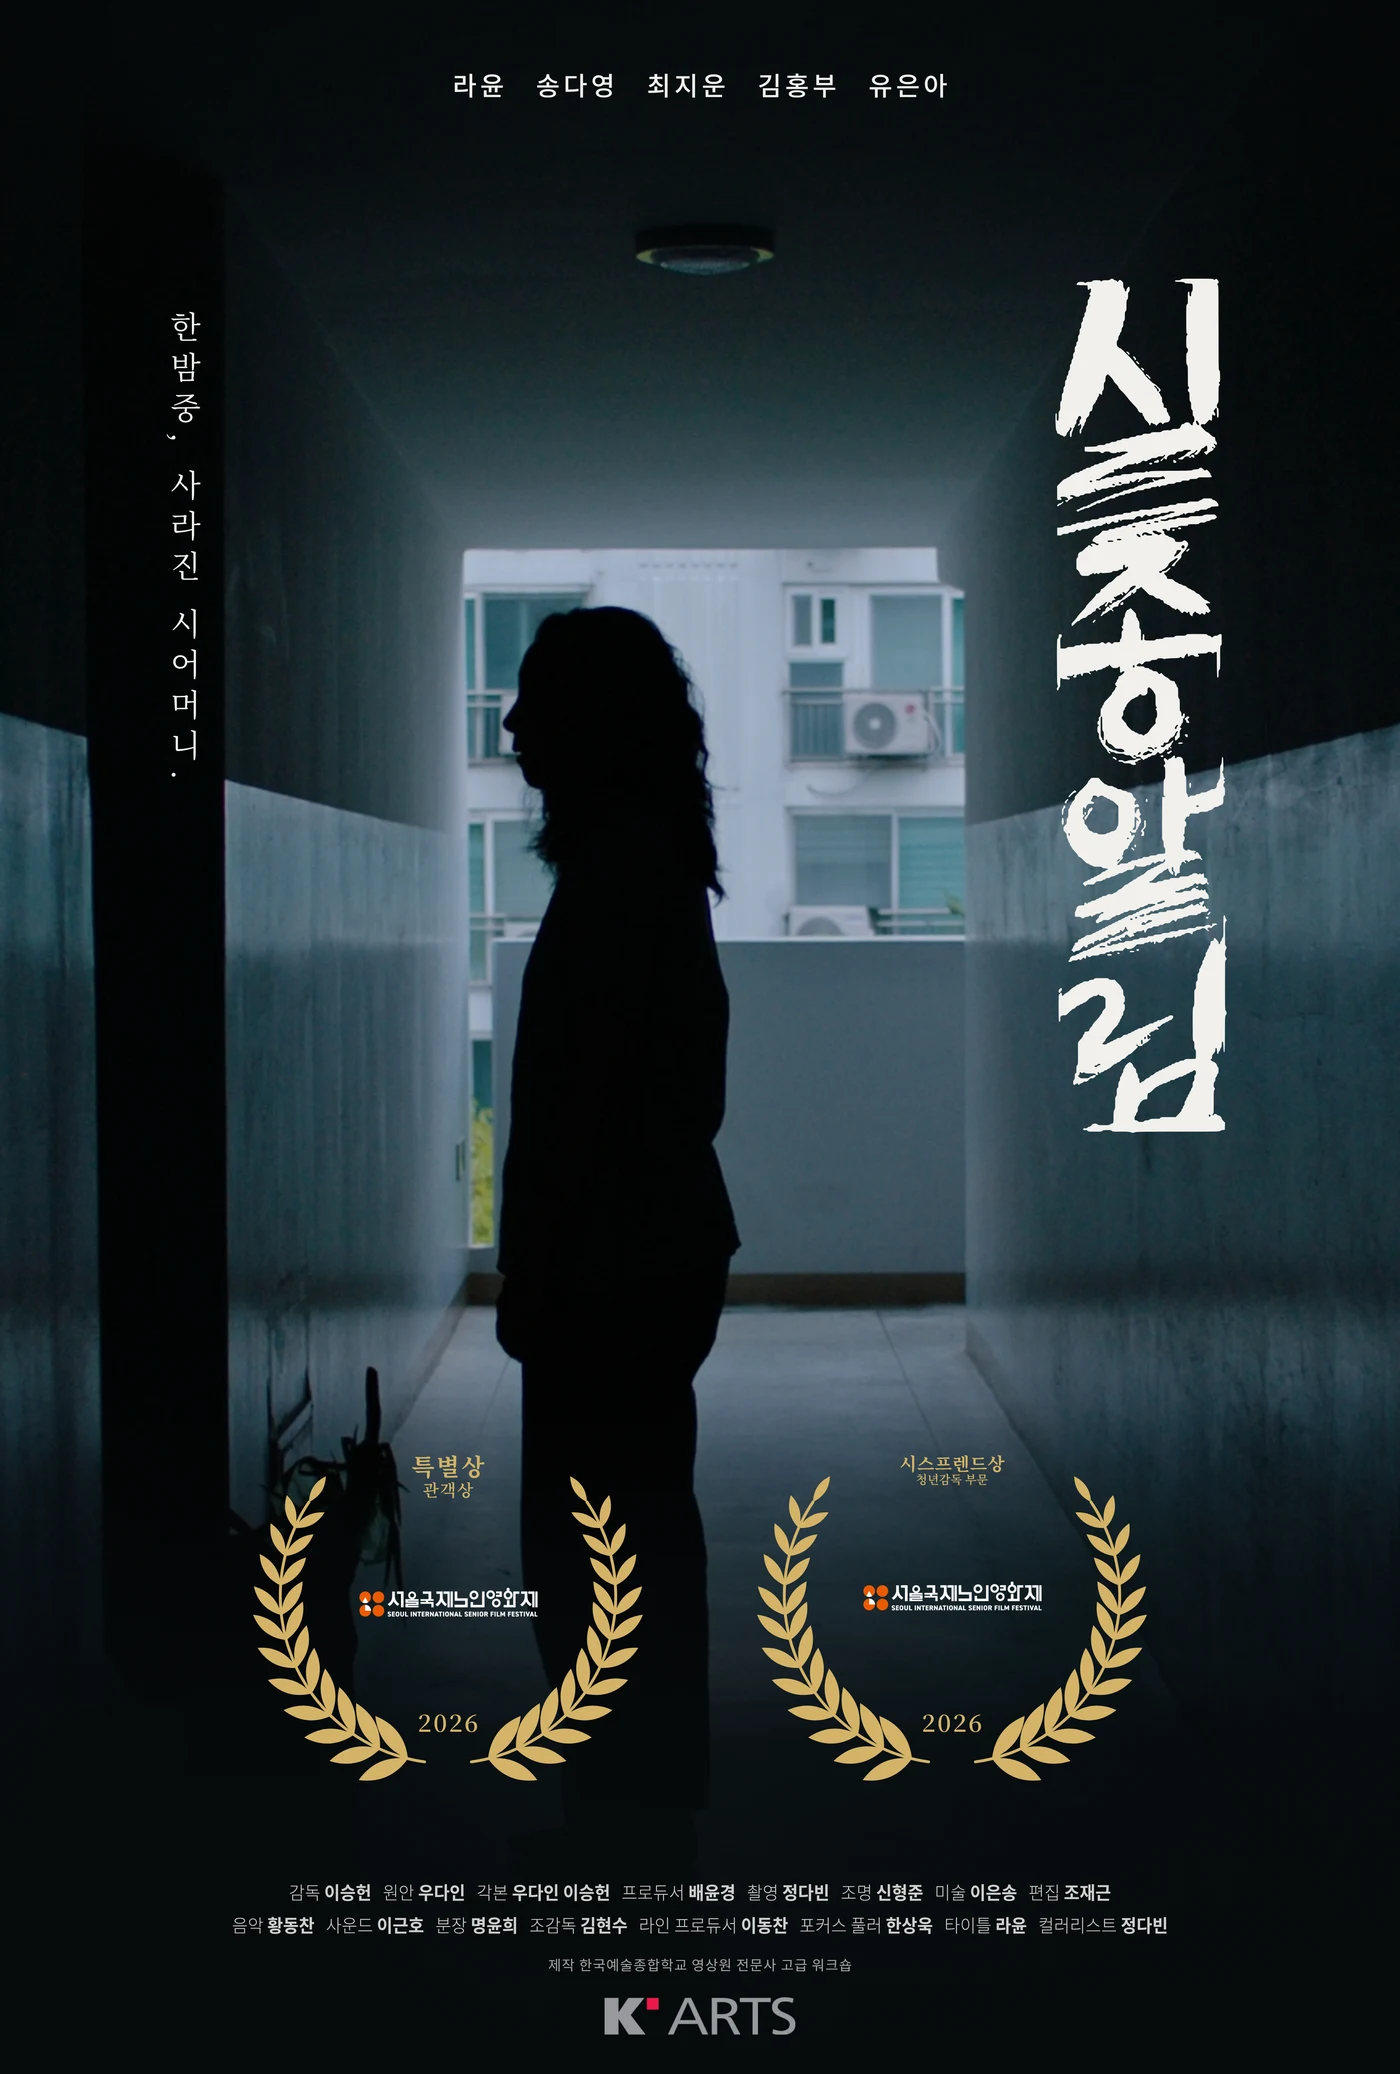
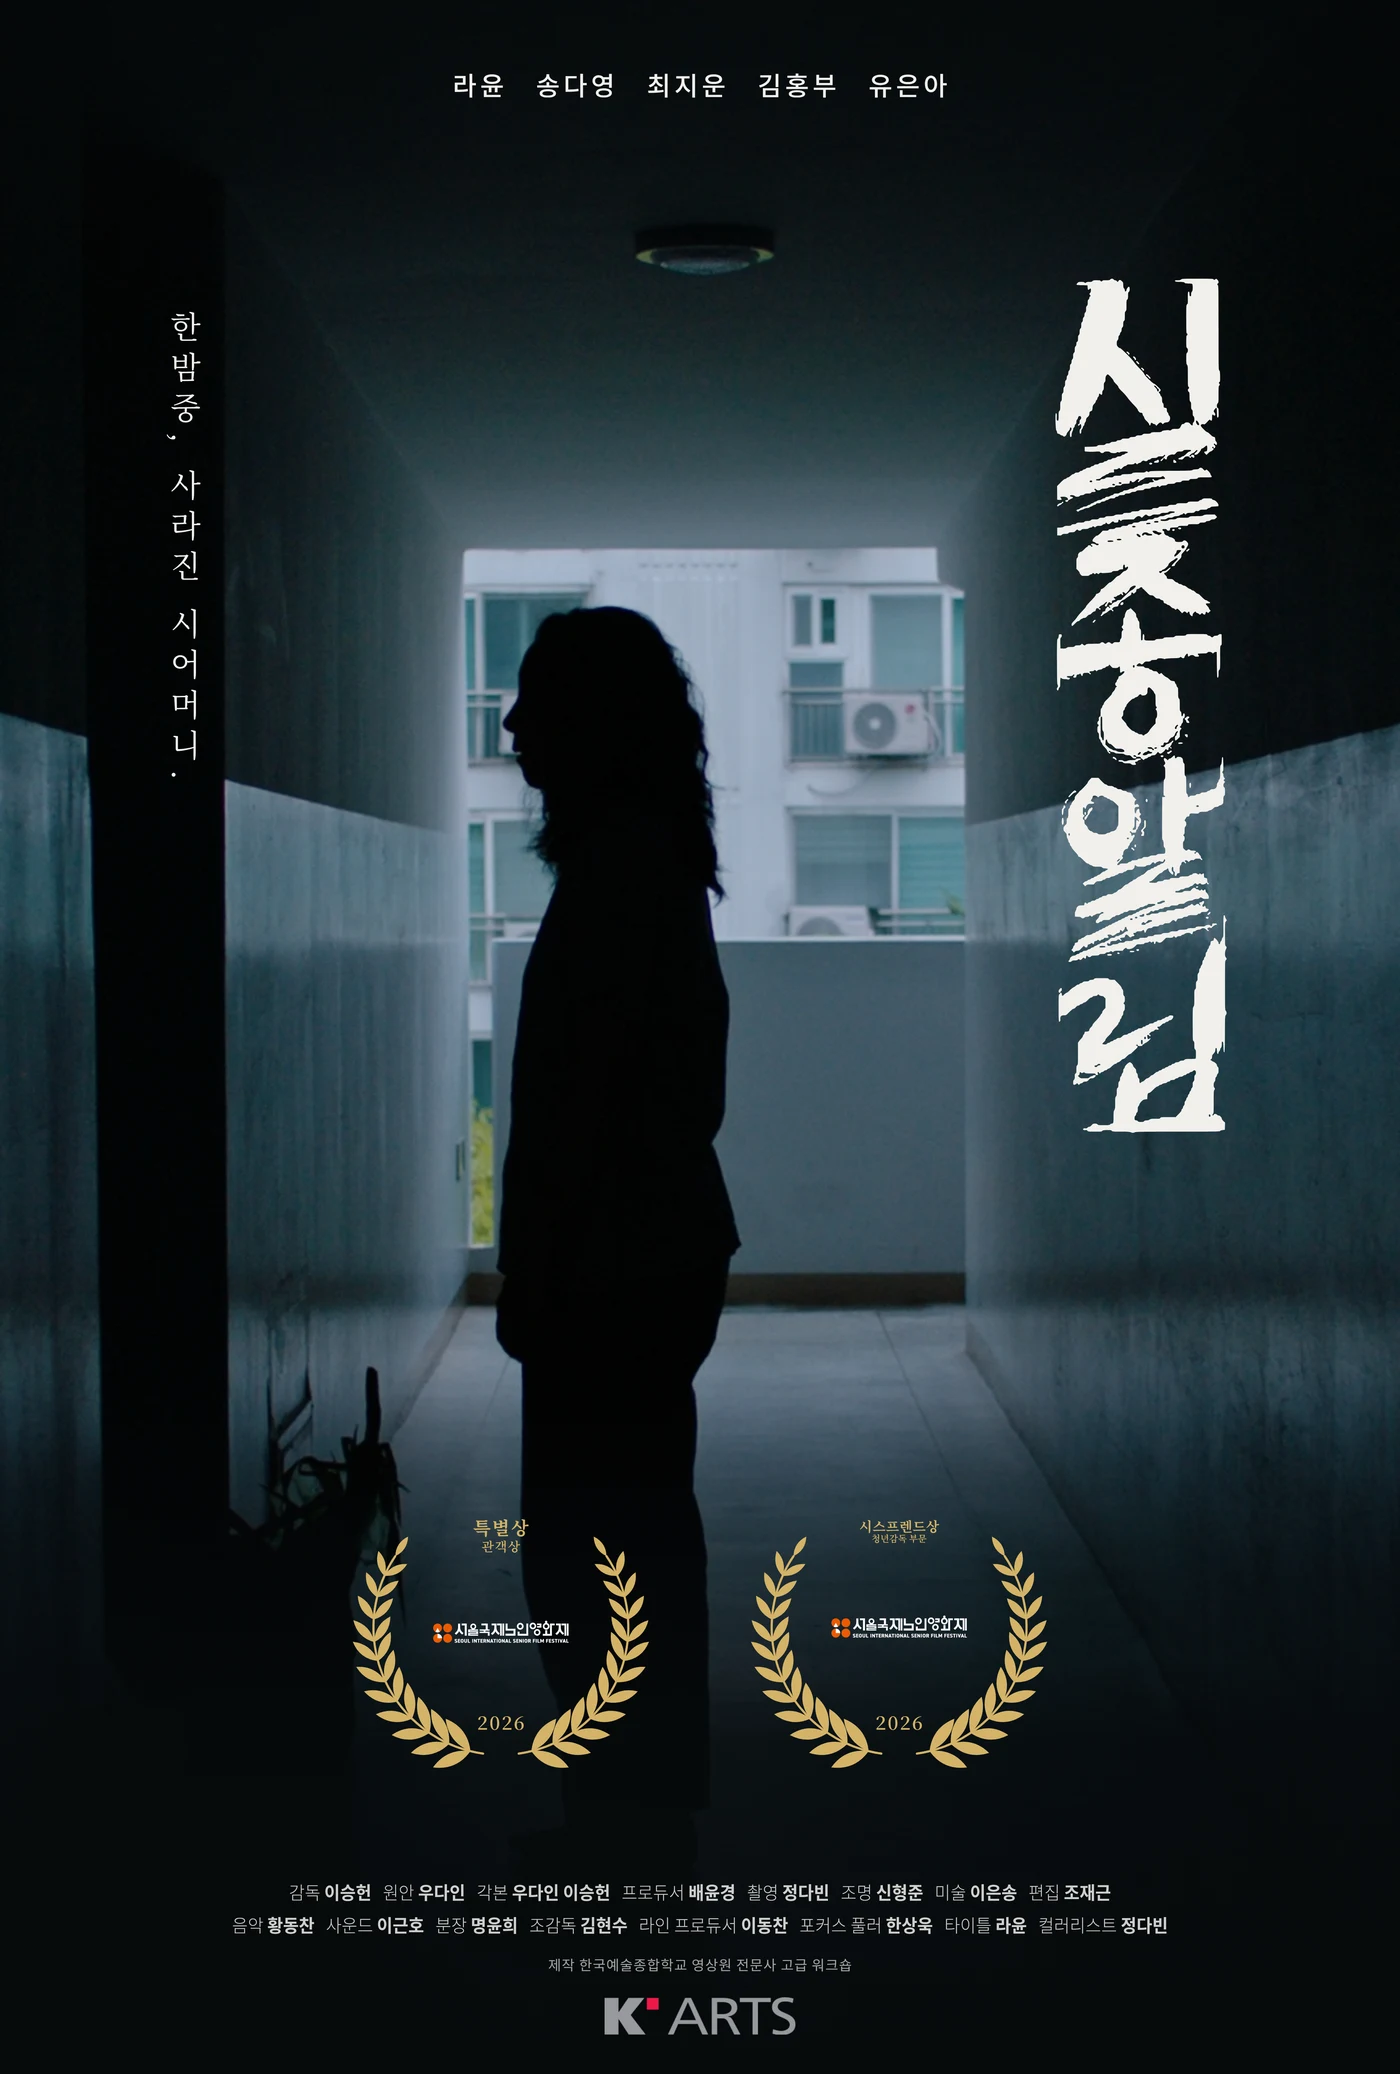
Smaller laurels on Missing poster
Claude-Session: https://claude.ai/code/session_01YYRb2KB3eF6Q3RKez6YmkW

Changed region(s): [[0.5221, 0.6789, 0.8293, 0.864], [0.1843, 0.6789, 0.4607, 0.864]]

diff --git a/index.html b/index.html
@@ -2532,7 +2532,7 @@ const roleHTML=L=>L.map(roleTag).join('<span class="rl-sep"> · </span>');
 const roleEn=f=>roleHTML(roleList(f[2]));
 const roleShort=r=>[/Direct/.test(r)&&"Dir",/DOP/.test(r)&&"DOP",/Color/.test(r)&&"Color"].filter(Boolean).join(" + ");
 /* 로컬 원본 이미지 */
-const W=(k,t,n)=>`img/w/${k}/${t}${n}.webp${t==="p"?"?v=38":""}`;
+const W=(k,t,n)=>`img/w/${k}/${t}${n}.webp${t==="p"?"?v=39":""}`;
 const has=(k,t)=>MEDIA[k]&&MEDIA[k][t]&&MEDIA[k][t].length;
 const cover=(k,fallback)=>(typeof HQS!=="undefined"&&HQS[k])?HQU(k,0):has(k,"s")?W(k,"s",0):fallback;
 const rnd=n=>Math.floor(Math.random()*n);
